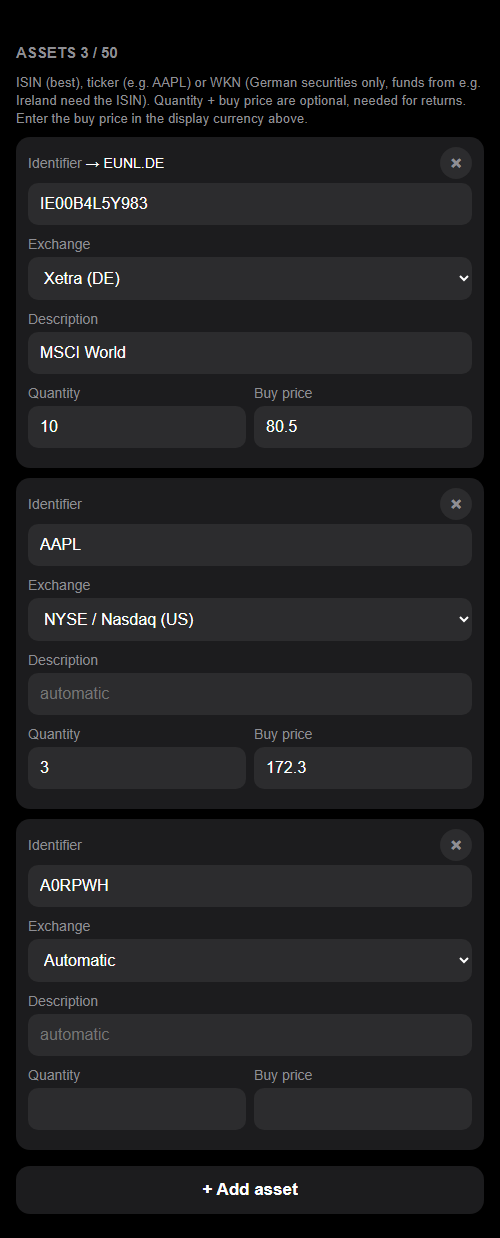
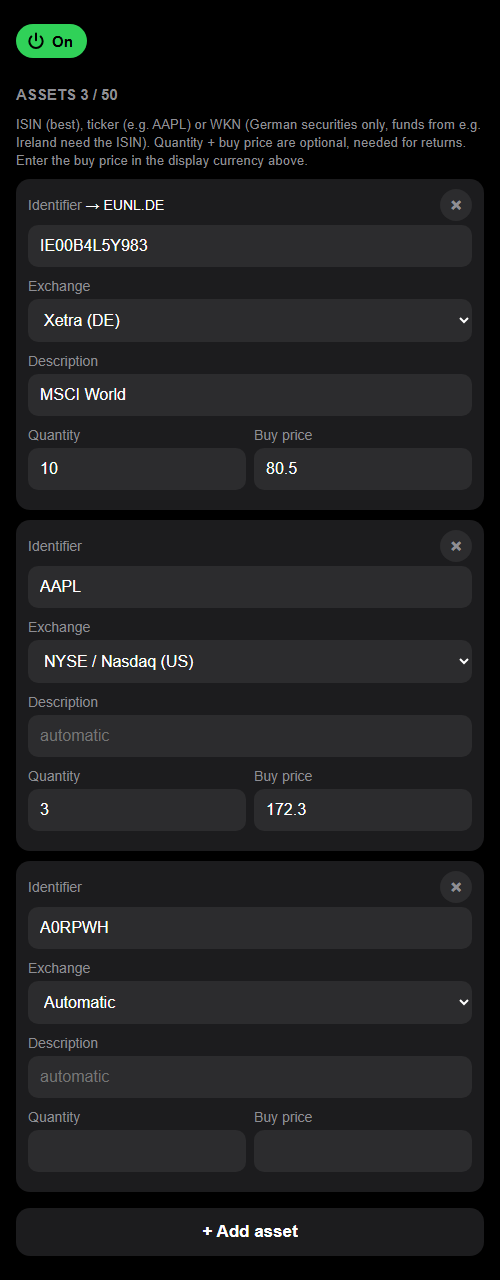
power button on the settings page

Changed region(s): [[0.03, 0.0, 0.99, 0.8901], [0.06, 0.9208, 0.96, 0.9822], [0.51, 0.8595, 0.63, 0.8901]]

diff --git a/src/www/index.html b/src/www/index.html
@@ -5,7 +5,12 @@
 <title>PortfolioDisplay</title>
 <meta name=author content="Alpenwhale - PUNCL-1.0, non-commercial use only">
 <link rel=stylesheet href=/s.css>
+<header>
+<button type=button id=power class="pwr" title="Display on / off" disabled>
+<svg viewBox="0 0 24 24" width=20 height=20><path d="M12 3v8M6.4 6.6a8 8 0 1 0 11.2 0" fill=none stroke=currentColor stroke-width=2.4 stroke-linecap=round /></svg>
+<span>...</span></button>
 <h1>PortfolioDisplay</h1>
+</header>
 <p id=note></p>
 <!-- autocomplete/autocorrect/spellcheck off: phone keyboards don't learn or suggest what's typed here -->
 <form method=post action=/save id=f autocomplete=off novalidate>
@@ -143,6 +148,21 @@ if (location.search == '?ok') {
   history.replaceState(null, '', '/');
 }
 
+// power button: off = screen dark and no price refresh, like the sleep time; works without saving
+function power(off) {
+  const b = $('#power');
+  b.classList.toggle('off', off);
+  b.querySelector('span').textContent = off ? 'Off' : 'On';
+  b.disabled = false;
+}
+$('#power').onclick = () => {
+  const b = $('#power');
+  b.disabled = true;
+  fetch(b.classList.contains('off') ? '/on' : '/off', {method: 'POST'})
+    .then(r => r.json()).then(r => power(r.off))
+    .catch(() => { b.disabled = false; b.querySelector('span').textContent = 'Retry'; });
+};
+
 // switches, and the blocks that only matter when a switch is on (data-if="name" / "!name")
 const SWITCHES = ['show_total', 'show_assets', 'single', 'show_gain', 'show_value', 'show_change', 'sleep'];
 function deps() {
@@ -233,6 +253,7 @@ function fill(c) {
                    'sleep_from', 'sleep_to', 'tz']) f.elements[k].value = s[k];
   for (const k of SWITCHES) f.elements[k].checked = s[k];
   deps();
+  power(c.off);
   f.pw.placeholder = c.pw ? 'saved - leave empty to keep' : '';
   for (const n of c.nets) $('#nets').append(new Option(n));
 

diff --git a/src/www/s.css b/src/www/s.css
@@ -1,5 +1,8 @@
 body{background:#000;color:#fff;font-family:-apple-system,Helvetica,Arial,sans-serif;max-width:640px;margin:auto;padding:16px}
-h1{font-size:28px}
+h1{font-size:28px;margin:0}
+header{display:flex;align-items:center;gap:12px;margin:8px 0 16px}
+button.pwr{width:auto;margin:0;padding:7px 14px 7px 10px;border-radius:20px;display:flex;align-items:center;gap:6px;font-size:15px;background:#30d158;color:#000}
+button.pwr.off{background:#3a3a3c;color:#fff}
 h2{font-size:15px;color:#8e8e93;text-transform:uppercase;margin-top:28px}
 input,select{width:100%;box-sizing:border-box;background:#1c1c1e;color:#fff;border:0;border-radius:10px;padding:12px;margin:4px 0 10px;font-size:16px}
 label{color:#8e8e93;font-size:14px}

diff --git a/src/core/run.py b/src/core/run.py
@@ -40,16 +40,16 @@ def loop(app) -> None:
     app.slide %= max(1, app.pages)
     app.next_fetch = later(every(app))
     app.next_slide = later(app.slide_ms())
-    app.asleep, check = False, 0
+    app.asleep = False
 
     while True:
         app.serve()
         app.button()
         app.maybe_reboot()
 
-        # sleep window, checked twice a minute (clock module only loaded for the check)
-        if due(check):
-            check = later(30000)
+        # sleep window + power switch, checked twice a minute or right after the switch
+        if not app.nap_at or due(app.nap_at):
+            app.nap_at = later(30000)
             nap(app)
 
         # refresh interval up -> fetch phase (not while the info screen, a button press, a reboot or
@@ -97,11 +97,14 @@ def loop(app) -> None:
 
 
 def nap(app) -> None:
-    """Enter / leave the sleep window: screen dark (backlight / OLED off if possible), no refresh."""
-    from core import clock
-    now = clock.asleep(app.s)
-    del clock
-    drop("core.clock")
+    """Enter / leave the sleep window or the off state: screen dark (backlight / OLED off if
+    possible), no refresh."""
+    now = app.off
+    if not now:
+        from core import clock
+        now = clock.asleep(app.s)
+        del clock
+        drop("core.clock")
     if now == app.asleep:
         return
     app.asleep = now

diff --git a/src/core/app.py b/src/core/app.py
@@ -41,6 +41,16 @@ def drop(*names: str) -> None:
     gc.collect()
 
 
+def _exists(path: str) -> bool:
+    """File on flash?"""
+    import os
+    try:
+        os.stat(path)
+        return True
+    except OSError:
+        return False
+
+
 class App:
     """Shared state for setup + normal mode."""
 
@@ -80,6 +90,8 @@ class App:
         self._reboot = 0
         self.just_saved = False  # set by the portal, handled in serve()
         self.web_until = 0       # portal in use: no refresh (soft reset) until then
+        self.nap_at = 0          # next sleep window / power check
+        self.off = _exists("/off")  # switched off in the portal: dark like the sleep window
         self._press = 0
         self._shown_s = -1
         self.btn = machine.Pin(config.BUTTON_PIN, machine.Pin.IN, machine.Pin.PULL_UP)

diff --git a/src/net/portal.py b/src/net/portal.py
@@ -128,6 +128,22 @@ def handle(cl, app) -> None:
         send_file(cl, STATIC["/saved"])
         return
 
+    # power switch: off = dark like the sleep window, kept in a flag file, applied right away
+    if method == "POST" and path in ("/on", "/off"):
+        import os
+        app.off = path == "/off"
+        try:
+            if app.off:
+                open("/off", "w").close()
+            else:
+                os.remove("/off")
+        except OSError:
+            pass
+        app.nap_at = 0  # checked on the next loop pass
+        head(cl, "200 OK", "application/json")
+        cl.write('{"off":%s}' % ("true" if app.off else "false"))
+        return
+
     # form data (own module), anything else (captive portal probes etc.) gets the form
     if path == "/cfg.json":
         from net import cfg

diff --git a/src/core/boot.py b/src/core/boot.py
@@ -80,8 +80,8 @@ def start(state):
         time.sleep_ms(50)
 
     # connected: first prices via a refresh soft reset (this message stays up meanwhile).
-    # without assets there's nothing to fetch, go straight to the loop + settings url
-    if not reason and app.n:
+    # without assets (or switched off) there's nothing to fetch, go straight to the loop
+    if not reason and app.n and not app.off:
         app.message("Loading prices", [])
         app.refresh(info=1)
     app.show_info = 1

diff --git a/src/net/cfg.py b/src/net/cfg.py
@@ -25,6 +25,7 @@ def send(cl, app, head) -> None:
         cl.write(sep)
         cl.write(ln)
         sep = ","
-    cl.write('],"pw":%s,"pp":%s,"max":%d,"reset_s":%d,"nets":%s}' % (
+    cl.write('],"off":%s' % ("true" if getattr(app, "off", False) else "false"))
+    cl.write(',"pw":%s,"pp":%s,"max":%d,"reset_s":%d,"nets":%s}' % (
         "true" if app.sec.get("pw") else "false", "true" if app.sec.get("pp") else "false",
         assets.MAX, config.RESET_HOLD_S, json.dumps(nets)))

diff --git a/tools/portal_shots.py b/tools/portal_shots.py
@@ -37,7 +37,7 @@ ASSETS = [
 NETS = ["FRITZ!Box 7590 XY", "Home", "Neighbour-5G"]
 
 CONFIGURED = {"s": dict(BASE, ssid="Home", period="ytd", sleep=1), "items": ASSETS,
-              "pw": True, "pp": True, "max": 50, "reset_s": 10, "nets": NETS}
+              "off": False, "pw": True, "pp": True, "max": 50, "reset_s": 10, "nets": NETS}
 
 # name -> (path, cfg.json). "?only=<section>" shows just that part of the form (for the field tables)
 VIEWS = {

diff --git a/src/data/store.py b/src/data/store.py
@@ -138,6 +138,7 @@ def factory_reset() -> None:
     _rm(SECRET)
     _rm("/assets.jsonl")
     _rm("/prices.bin")
+    _rm("/off")
 
 
 def pw_hash(pw: str, salt: bytes = b"") -> str:

diff --git a/docs/ARCHITECTURE.md b/docs/ARCHITECTURE.md
@@ -153,6 +153,7 @@ Limits per refresh: `FETCH_BATCH` assets, `FETCH_MAX_S` seconds, 10 s per reques
 | `GET /`, unknown paths | `www/index.html` |
 | `GET /s.css` | stylesheet |
 | `GET /cfg.json` | settings, asset lines, visible networks. For passwords only whether one is set |
+| `POST /on`, `POST /off` | power switch: flag file `/off`, takes effect at once (same path as the sleep window) |
 | `POST /save` | body goes to `/pending.form`, then restart |
 
 The form is a static file. A script loads `/cfg.json`, fills the fields and clones one row per asset. Save stays disabled until that worked. The form is sent by script and retried for about a minute while the display is busy; after any portal request the device holds back the next refresh for `WEB_HOLD_S` (a refresh restarts the VM and drops the web server). `net.save.apply_pending()` applies the stored form at the next boot, row by row.
@@ -166,6 +167,7 @@ The form is a static file. A script loads `/cfg.json`, fills the fields and clon
 | `/prices.bin` | per asset: price, base (f32), valid flag, currency, last error | removed |
 | `/secret.bin` | AES: Wi-Fi password, salted hash of the page password | removed |
 | `/ap.key` | AES: setup Wi-Fi password | kept |
+| `/off` | exists while the display is switched off in the portal | removed |
 | `/pending.form` | raw form body between save and restart | |
 
 Files are written to `.tmp` and renamed. Secrets use AES-256-CBC with a key derived from the chip id: the files are useless on another device, but there is no protection against someone with USB access.

diff --git a/docs/SETUP.md b/docs/SETUP.md
@@ -32,6 +32,8 @@ Every save restarts the device (about 15 s). If the phone stays in the same Wi-F
 |---|---|
 | <img src="img/portal/1_first_setup.png" width="300"> | <img src="img/portal/2_configured.png" width="300"> |
 
+**On / Off** (button left of the title): switches the display off and on right away, no Save needed. Off works like the sleep time: screen dark, no price refresh. It stays off after a restart until switched on again.
+
 **Wi-Fi**
 
 <img src="img/portal/wifi.png" width="300">
